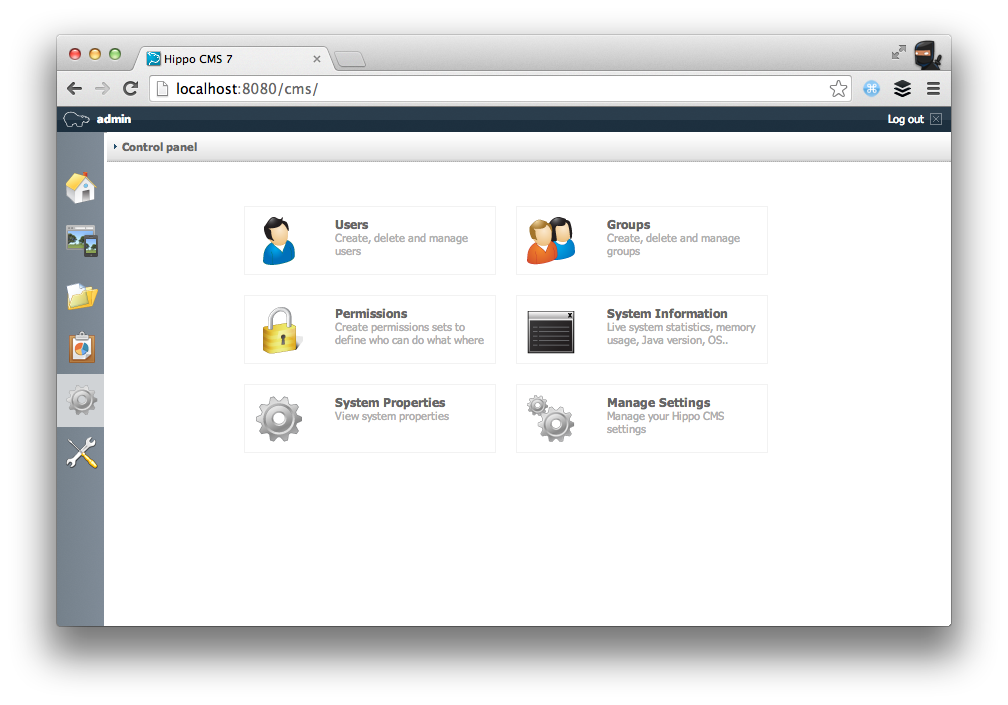
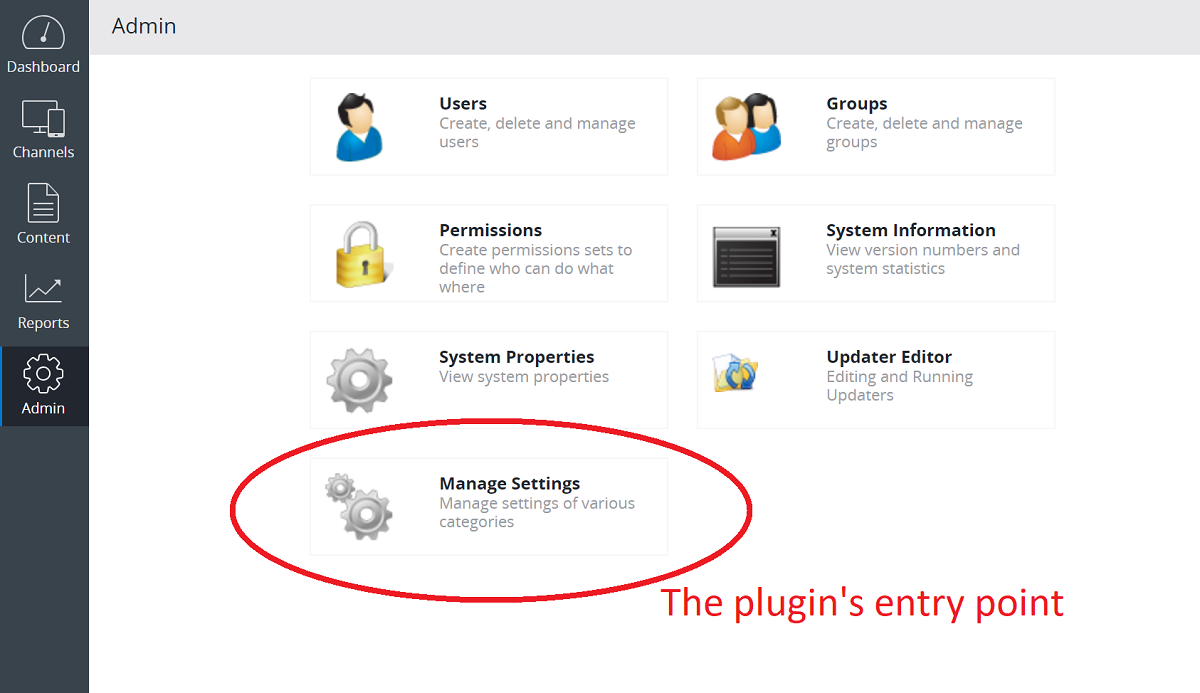
HIPFORGE-278 redo screenshots

diff --git a/src/site/markdown/adding-features.md b/src/site/markdown/adding-features.md
@@ -14,7 +14,7 @@
   limitations under the License.
   -->
 
-# Adding configuration options for custom features
+## Adding configuration options for custom features
 
 Adding or extending the configuration panels with your own BloomReach CMS plugin configuration is quite easy.
 It basically consists of three steps:
@@ -25,7 +25,7 @@ It basically consists of three steps:
 * Create a Wicket Panel for displaying the fields in the settings management panel
 * Adding the new panel to one of the existing categories (or to a new category)
 
-## Add the API dependency to your project
+### Add the API dependency to your project
 
 Add the frontend api to your custom feature module. 
 
@@ -39,7 +39,7 @@ Add the frontend api to your custom feature module.
 
 Select the correct version for your project. See the [release notes](release-notes.html) for more information on which version is applicable.
 
-## Creating a Wicket Model
+### Creating a Wicket Model
 
 Make sure the newly created Java class implement the _CMSFeatureConfig_ interface.
 
@@ -100,7 +100,7 @@ public class UserManagementConfigModel extends LoadableDetachableConfigModel<Use
     }
 }
 ```
-## Creating the Wicket Panel
+### Creating the Wicket Panel
 
 ```java
 public class UserManagementConfigPanel extends FeatureConfigPanel {
@@ -156,7 +156,7 @@ And adding the markup for our panel.
 </html>
 ```
 
-## Adding the configuration
+### Adding the configuration
 
 Be sure to create node /hippo:configuration/hippo:frontend/cms/cms-admin/settings/tabconfig/security/usermanagement
 

diff --git a/src/site/markdown/screenshots.md b/src/site/markdown/screenshots.md
@@ -1,5 +1,5 @@
 <!--
-  Copyright 2013 BloomReach Inc. (https://www.bloomreach.com)
+  Copyright 2013-2019 BloomReach Inc. (https://www.bloomreach.com)
 
   Licensed under the Apache License, Version 2.0 (the "License");
   you may not use this file except in compliance with the License.
@@ -14,8 +14,19 @@
   limitations under the License.
   -->
 
-# Screenshots
+## Screenshots
 
-![Admin panel](images/admin_panel.png)
-![Settings panel - Other](images/settings-panel.png)
-![Security panel - Other](images/security-panel.png)
+### Entry point
+![Admin Entry Point](images/admin_panel.png)
+
+### Maintenance category
+![Maintenance Category](images/maintenance_panel.png)
+
+### Security category
+![Security Category](images/security_panel.png)
+
+### Upload category
+![Upload Category](images/upload_panel.png)
+
+### Other category
+![Other Category](images/other_panel.png)

diff --git a/src/site/markdown/install.md b/src/site/markdown/install.md
@@ -13,9 +13,9 @@
   See the License for the specific language governing permissions and
   limitations under the License.
   -->
-# How to install the settings management plugin
+## How to install the settings management plugin
 
-## Prerequisites
+### Prerequisites
 
 These instruction assumes that you have a BloomReach CMS 13 project based on the archetype, i.e. a Maven 
 multi-module project consisting of at least four sub-modules: cms, cms-dependencies, site and bootstrap.

diff --git a/src/site/markdown/release-notes.md b/src/site/markdown/release-notes.md
@@ -17,7 +17,7 @@
 ## Release notes
 
 ### Version 2.0.0 
-Release date: 28 February 2019
+Release date: 4 March 2019
 
 + [HIPFORGE-278](https://issues.onehippo.com/browse/HIPFORGE-278)<br/> 
   Upgrade to BloomReach CMS 13, including demo project. 

diff --git a/src/site/markdown/features.md b/src/site/markdown/features.md
@@ -14,7 +14,7 @@
   limitations under the License.
   -->
 
-# Features
+## Features
 
 The Settings management plugin covers the following features:
 
